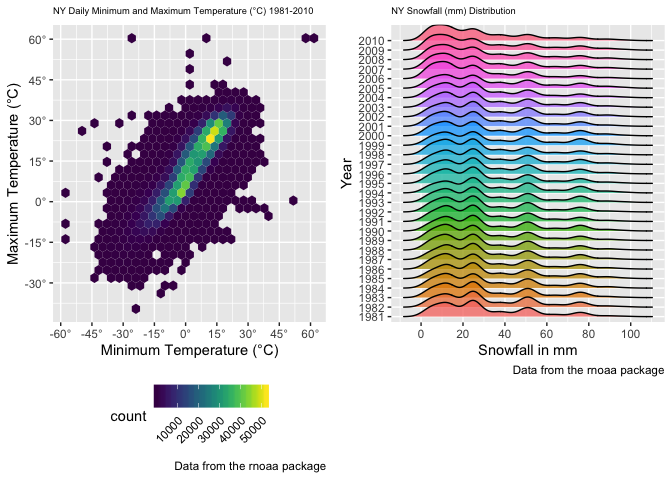
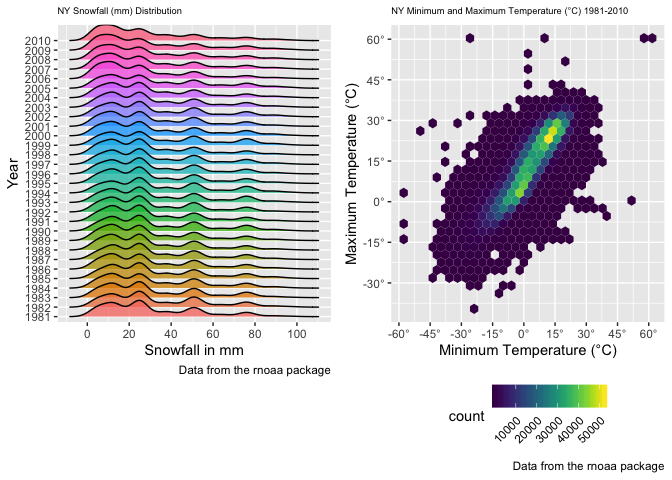
Trying to fix final plot

diff --git a/p8105_hw3_edm2152.md b/p8105_hw3_edm2152.md
@@ -300,7 +300,7 @@ temp_plot =
   ggplot(aes(x = tmin, y = tmax)) +
   geom_hex() +
   viridis::scale_fill_viridis() +
-  labs(title = "NY Daily Minimum and Maximum Temperature (°C) 1981-2010",
+  labs(title = "NY Minimum and Maximum Temperature (°C) 1981-2010",
        x = "Minimum Temperature (°C)",
        y = "Maximum Temperature (°C)",
        caption = "Data from the rnoaa package") +
@@ -328,7 +328,7 @@ snowfall_plot =
   theme(plot.title = element_text(size = 7),
         legend.position = "none")
 
-temp_plot + snowfall_plot
+snowfall_plot + temp_plot
 ```
 
     ## Picking joint bandwidth of 3.76
